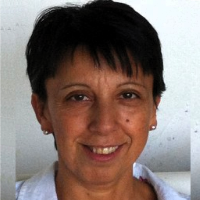
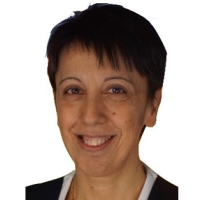
added Russo abstract, bio and photo

diff --git a/index.html b/index.html
@@ -50,7 +50,7 @@ key: page-index
     <h2>Register</h2>
     Registration is free but mandatory for all who want to attend the workshop.
     <a href="https://kr2021.kbsg.rwth-aachen.de/page/registration" target="_blank">Click this link to register</a> on the KR2020 website.   
-    <div style="clear:both;""></div>
+    <div style="clear:both;"></div>
 
     
 
@@ -63,12 +63,12 @@ key: page-index
         <div class="image-cropper" style="float:left;  margin-right: 20px">
             <img src="assets/images/speakers/ag.png" class="rounded" />
         </div>
-        <div style="float:left;"">
+        <div style="float:left;">
             <div class="name">Dr. Alexander Gray</div>
             <div class="affil">IBM</div>
             
         </div>
-        <div style="clear:both;""></div>
+        <div style="clear:both;"></div>
         <!-- <div style="margin-left:20px; margin-top: 30px; color:rgb(53, 17, 17); font-size:12px"><i>Abstract</i></div> -->
         <h4 class="abstract-title">Logical Neural Networks</h4> <!-- TODO: incomplete title-->
         <div class="abstract">
@@ -99,14 +99,51 @@ key: page-index
 
     <div style="margin-top:50px">
         <div class="image-cropper" style="float:left;  margin-right: 20px">
+            <img src="assets/images/speakers/ar.png" class="rounded" />
+        </div>
+        <div style="float:left;">
+            <div class="name">Prof. Alessandra Russo</div>
+            <div class="affil">Imperial College London</div>
+            
+        </div>
+        <div style="clear:both;"></div>
+        <!-- <div style="margin-left:20px; margin-top: 30px; color:rgb(53, 17, 17); font-size:12px"><i>Abstract</i></div> -->
+        <h4 class="abstract-title">Symbolic Machine Learning and its role in Neuro-symbolic AI</h4>
+        <div class="abstract">
+            Learning interpretable models from data is one of the main challenges of AI. Over the last two decades there has been growing 
+            interest in Symbolic Machine Learning, a field of Machine Learning that aims to develop algorithms and systems for learning 
+            models that explain data within the context of some given background knowledge. In contrast to statistical learning methods, 
+            models learned by Symbolic Machine Learning are interpretable: they can be translated into natural language and understood by humans. 
+            In the first part of this talk we present Learning from Answer Sets (LAS), a state-of-the-art Symbolic Machine Learning approach 
+            capable of learning different classes of models, including those which are non-monotonic, nondeterministic and/or preference-based. 
+            We show how the advanced features of the LAS framework have made it possible to solve a variety of real-world problems in a manner 
+            that is data efficient, scalable and robust to noise. LAS can be combined with statistical learning methods to realise neuro-symbolic 
+            solutions that perform both fast, “low-level” prediction from unstructured data, and “high-level” logical and interpretable learning. 
+            In the second part of this talk we will present two such neuro-symbolic solutions for respectively solving image classification 
+            problems in the presence of distribution shifts, and discovering sub-goal structures for reinforcement learning agents.
+
+        </div> 
+        <div class="bio">
+            Alessandra Russo is Professor of Applied Computational Logic at the Department of Computing, Imperial College London, 
+            where she leads the Structured and Probabilistic Intelligent Knowledge Engineering (SPIKE) group. She has strong expertise 
+            in Computational Logic, Knowledge Representation, Symbolic Machine Learning, and Probabilistic inference. 
+            She has pioneered new Symbolic Machine Learning algorithms, which are among the state-of-the-art learning systems, 
+            and gained an established track record on the application of these systems to failure prediction, policy and preference 
+            learning, classification, and recommendation learning. She has been Editor-in-chief of IET Software, 
+            Editor of ACM Computing Surveys and is currently Associate Editor of the TPLP journal for the area of Logic and Machine Learning.
+        </div>
+    </div>
+
+    <div style="margin-top:50px">
+        <div class="image-cropper" style="float:left;  margin-right: 20px">
             <img src="assets/images/speakers/pm.png" class="rounded" />
         </div>
-        <div style="float:left;"">
+        <div style="float:left;">
             <div class="name">Dr. Pasquale Minervini</div>
             <div class="affil">University College London (UCL)</div>
             
         </div>
-        <div style="clear:both;""></div>
+        <div style="clear:both;"></div>
         <!-- <div style="margin-left:20px; margin-top: 30px; color:rgb(53, 17, 17); font-size:12px"><i>Abstract</i></div> -->
         <h4 class="abstract-title">From Complex Query Answering to Neural Theorem Proving</h4>
         <div class="abstract">
@@ -147,12 +184,12 @@ key: page-index
         <div class="image-cropper" style="float:left;  margin-right: 20px">
             <img src="assets/images/speakers/ab.png" class="rounded" />
         </div>
-        <div style="float:left;"">
+        <div style="float:left;">
             <div class="name">Dr. Antoine Bosselut</div>
             <div class="affil">École Polytechnique Fédéral de Lausanne (EPFL)</div>
             
         </div>
-        <div style="clear:both;""></div>
+        <div style="clear:both;"></div>
         <!-- <div style="margin-left:20px; margin-top: 30px; color:rgb(53, 17, 17); font-size:12px"><i>Abstract</i></div> -->
         <h4 class="abstract-title">Symbolic Scaffolds for Neural Commonsense Representation and Reasoning</h4>
         <div class="abstract">
@@ -175,49 +212,17 @@ key: page-index
         </div>
     </div>
 
-    <div style="margin-top:50px">
-        <div class="image-cropper" style="float:left;  margin-right: 20px">
-            <img src="assets/images/speakers/ar.png" class="rounded" />
-        </div>
-        <div style="float:left;"">
-            <div class="name">Prof. Alessandra Russo</div>
-            <div class="affil">Imperial College London</div>
-            
-        </div>
-        <div style="clear:both;""></div>
-        <!-- <div style="margin-left:20px; margin-top: 30px; color:rgb(53, 17, 17); font-size:12px"><i>Abstract</i></div> -->
-        <!-- <h4 class="abstract-title">Symbolic Scaffolds for Neural Commonsense Representation and Reasoning</h4>
-        <div class="abstract">
-            Situations described using natural language are richer than what humans explicitly communicate. 
-            For example, the sentence "She pumped her fist" connotes many potential auspicious causes. 
-            For machines to understand natural language, they must be able to make commonsense inferences about explicitly stated information. 
-            However, current NLP systems lack the ability to ground the situations they encounter to relevant world knowledge. 
-            Moreover, they struggle to reason over available facts to robustly generalize to future unseen events. 
-            In this talk, I will describe efforts at transforming modern language models into robust commonsense knowledge models by 
-            leveraging implicitly encoded knowledge representations. 
-            Then, I will discuss work in designing robust reasoning systems that use knowledge graphs as a structural scaffold for 
-            aggregating information across relevant commonsense inferences.
-        </div>  -->
-        <div class="bio_panel">
-            Alessandra Russo is a Professor in Applied Computational Logic at the Department of Computing, Imperial College London, 
-            and academic member of the Distributed Software Engineering Section. She leads the Structured and Probabilistic Knowledge 
-            Engineering (SPIKE) research group and her research interests are in the the areas of Computational Logic, 
-            Logic-based Symbolic Learning, Probabilistic and Distributed Inference, and their applications to Intelligent Adaptive Systems, 
-            Security, Network Management, Distributed Control Systems for Sensor Networks, and System Biology. 
-            She is also Editor-in-Chief of the IET Software Journal, Associated Editor of the ACM Computing Survey Journal and 
-            Director of Postgraduate Research.
-        </div>
-    </div>
+    
 
     <div style="margin-top:50px">
         <div class="image-cropper" style="float:left;  margin-right: 20px">
             <img src="assets/images/speakers/jl.png" class="rounded" />
         </div>
-        <div style="float:left;"">
+        <div style="float:left;">
             <div class="name">Dr. Jaehun Lee</div>
             <span class="affil">Samsung Research</div>  
         </div>
-        <div style="clear:both;""></div>
+        <div style="clear:both;"></div>
         <div class="bio_panel">
             Dr. Jaehun Lee is currently a researcher at Samsung Research, working in the space of large knowledge graph construction, 
             reasoning and its applications for mobile phones and consumer electronics. The applications include search and recommendations 
@@ -231,11 +236,11 @@ key: page-index
         <div class="image-cropper" style="float:left;  margin-right: 20px">
             <img src="assets/images/speakers/vb.png" class="rounded" />
         </div>
-        <div style="float:left;"">
+        <div style="float:left;">
             <div class="name">Dr. Vaishak Belle</div>
             <div class="affil">University of Edinburgh</div>     
         </div>
-        <div style="clear:both;""></div>    
+        <div style="clear:both;"></div>    
         <div class="bio_panel">
             Dr Vaishak Belle is a Chancellor’s Fellow and Faculty at the School of Informatics, University of Edinburgh, 
             an Alan Turing Institute Faculty Fellow, a Royal Society University Research Fellow, and a member of the 
@@ -268,7 +273,7 @@ key: page-index
             <div class="image-cropper-small" style="float:left;  margin-right: 20px">
                 <img src="assets/images/speakers/kn.png" class="rounded" />
             </div>
-            <div style="float:left;"">
+            <div style="float:left;">
                 <div class="name-org">Dr. Kwabena Nuamah</div>
                 <div class="affil-org">University of Edinburgh</div>     
             </div>
@@ -279,7 +284,7 @@ key: page-index
             <div class="image-cropper-small" style="float:left;  margin-right: 20px">
                 <img src="assets/images/speakers/et.png" class="rounded" />
             </div>
-            <div style="float:left;"">
+            <div style="float:left;">
                 <div class="name-org">Dr. Efi Tsamoura</div>
                 <div class="affil-org">Samsung AI Research</div>     
             </div>
@@ -289,7 +294,7 @@ key: page-index
             <div class="image-cropper-small" style="float:left;  margin-right: 20px">
                 <img src="assets/images/speakers/pk.png" class="rounded" />
             </div>
-            <div style="float:left;"">
+            <div style="float:left;">
                 <div class="name-org">Dr. Pavan Kapanipathi</div>
                 <div class="affil-org">IBM Research</div>     
             </div>
@@ -299,13 +304,13 @@ key: page-index
             <div class="image-cropper-small" style="float:left;  margin-right: 20px">
                 <img src="assets/images/speakers/jp.png" class="rounded" />
             </div>
-            <div style="float:left;"">
+            <div style="float:left;">
                 <div class="name-org">Dr. Jeff Z. Pan</div>
                 <div class="affil-org">University of Edinburgh</div>     
             </div>
         </div>
 
-        <div style="clear:both;""></div>
+        <div style="clear:both;"></div>
         
         <h3> Program Committee Members</h3>
         <div>

diff --git a/call/index.html b/call/index.html
@@ -19,7 +19,7 @@ key: page-index
 {% endhighlight %} -->
 
 <div style="padding-top: 0px">
-    <h2> Call for Submission</h2>
+    <h2> Call for Submissions</h2>
     <!-- <h3> Heading 1</h3> -->
     <div><i>To be held at 18th International Conference on Principles of Knowledge Representation and Reasoning (KR2021)</i></div>
     <br/>
